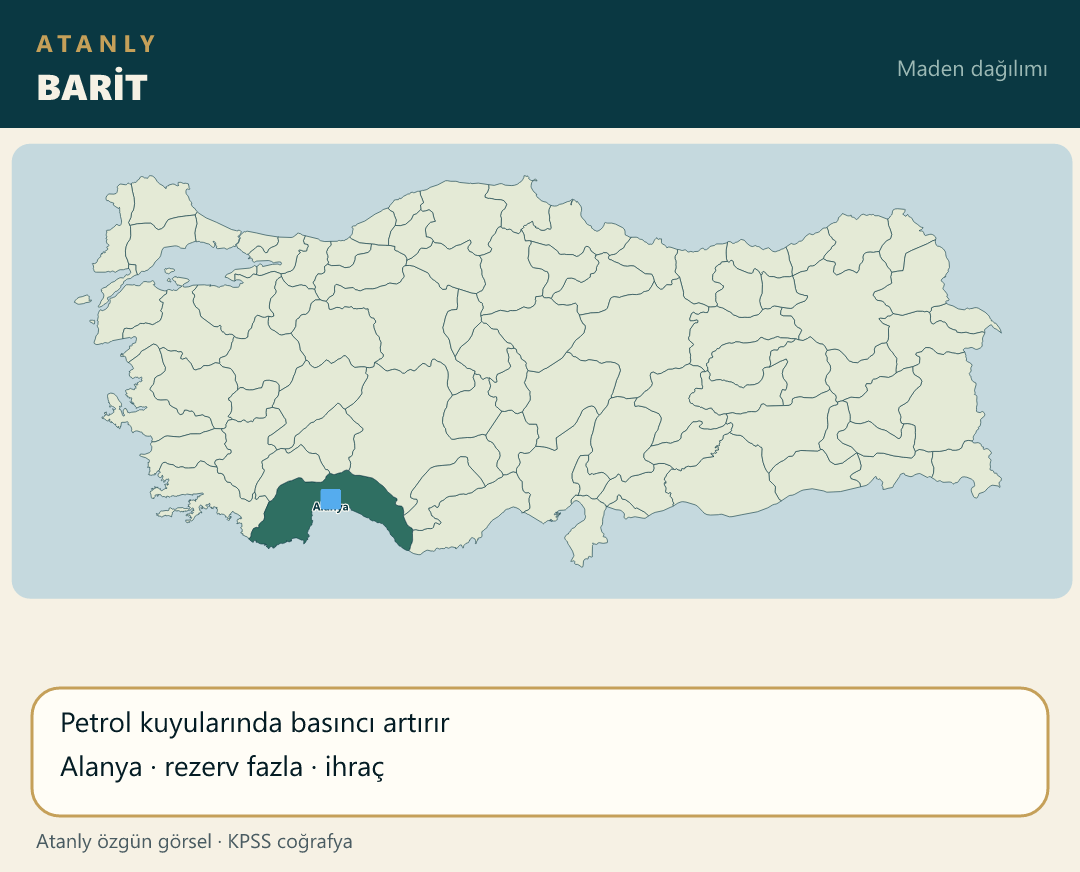
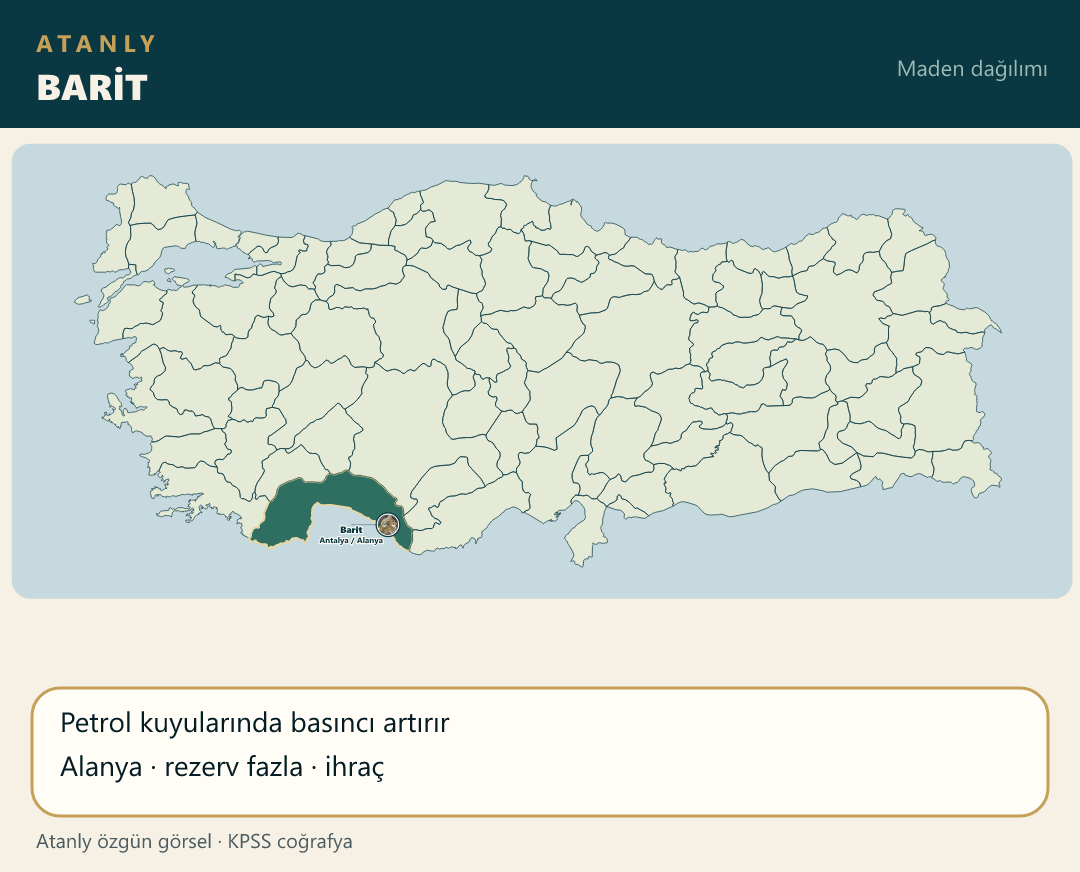
Place the barite photo on the Alanya production pin.

Changed region(s): [[0.275, 0.5264, 0.3972, 0.6502], [0.825, 0.4025, 0.8556, 0.4335], [0.2444, 0.4954, 0.275, 0.5264]]

diff --git a/scripts/build-atanly-maps.js b/scripts/build-atanly-maps.js
@@ -1002,8 +1002,10 @@ function main() {
         { file: "maden_krom.png", title: "KROM", iller: ["Elazığ", "Muğla", "Antalya"],
             yazilar: ["Guleman", "Köyceğiz", "Antalya (işleme)"],
             facts: ["Paslanmazlık–aşınmazlık · rezerv fazla · ihraç", "Çıkarım: Guleman, Köyceğiz", "İşleme: Elazığ (ham madde), Antalya (ulaşım)"] },
-        { file: "maden_barit.png", title: "BARİT", iller: ["Antalya"],
-            yazilar: ["Alanya"],
+        { file: "maden_barit.png", title: "BARİT", urun: "Barit",
+            noktalar: [
+                { il: "Antalya", ilce: "Alanya", ldx: -36, ldy: 8, pdx: 92, pdy: 8 }
+            ],
             facts: ["Petrol kuyularında basıncı artırır", "Alanya · rezerv fazla · ihraç"] },
         { file: "maden_bor.png", title: "BOR", iller: ["Balıkesir", "Eskişehir", "Kütahya", "Bursa"],
             yazilar: ["Bandırma", "Kırka", "Kütahya", "Bursa"],

diff --git a/notlar/cografya-21-not.js b/notlar/cografya-21-not.js
@@ -2,7 +2,7 @@
 (function () {
     function harita(src, alt) {
         return '<div class="mt-4 overflow-hidden rounded-xl border border-blue-200 dark:border-blue-700/50 bg-white dark:bg-slate-800 p-2">' +
-            '<img src="./src/img/' + src + '?v=14" alt="' + alt + ' Haritası" class="w-full h-auto rounded-lg object-contain" loading="lazy">' +
+            '<img src="./src/img/' + src + '?v=15" alt="' + alt + ' Haritası" class="w-full h-auto rounded-lg object-contain" loading="lazy">' +
             "</div>";
     }
 

diff --git a/index.html b/index.html
@@ -119,7 +119,7 @@
     <script src="notlar/cografya-18-not.js?v=17"></script>
     <script src="notlar/cografya-19-not.js?v=25"></script>
     <script src="notlar/cografya-20-not.js?v=1"></script>
-    <script src="notlar/cografya-21-not.js?v=7"></script>
+    <script src="notlar/cografya-21-not.js?v=8"></script>
     <script src="notlar/cografya-22-not.js?v=1"></script>
     <script src="notlar/cografya-23-not.js?v=1"></script>
     <script src="notlar/cografya-24-not.js?v=1"></script>
